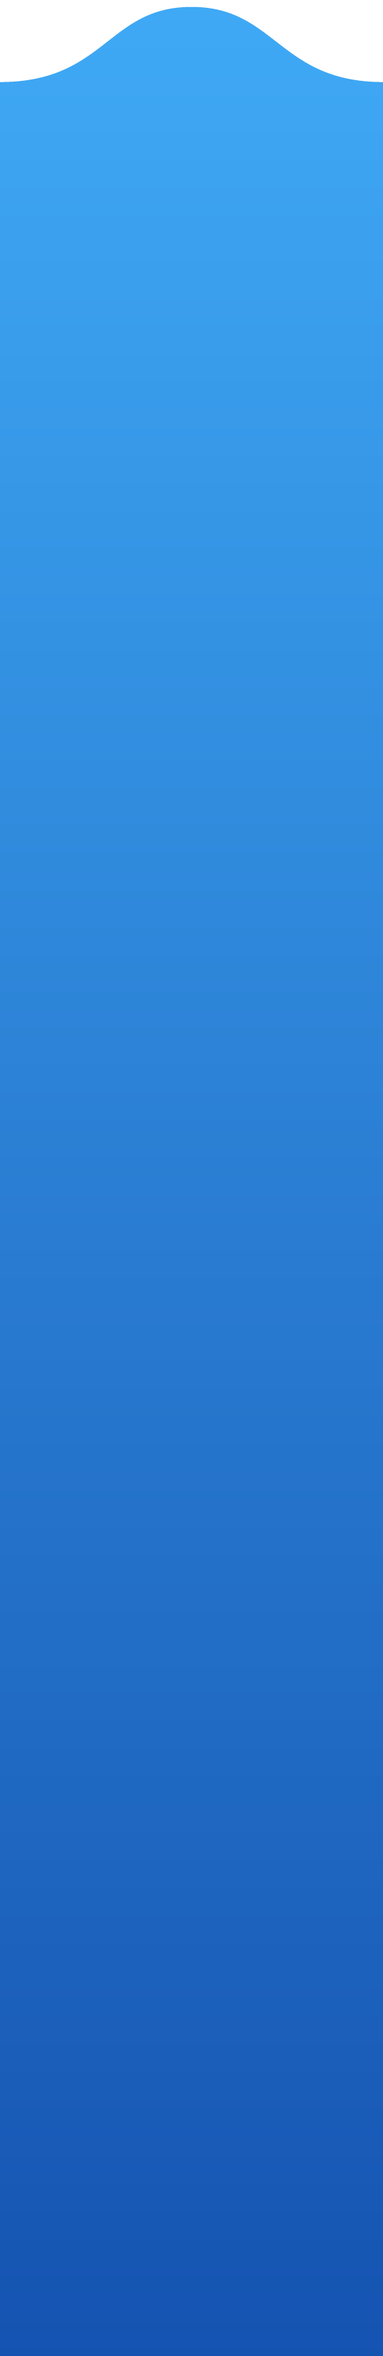
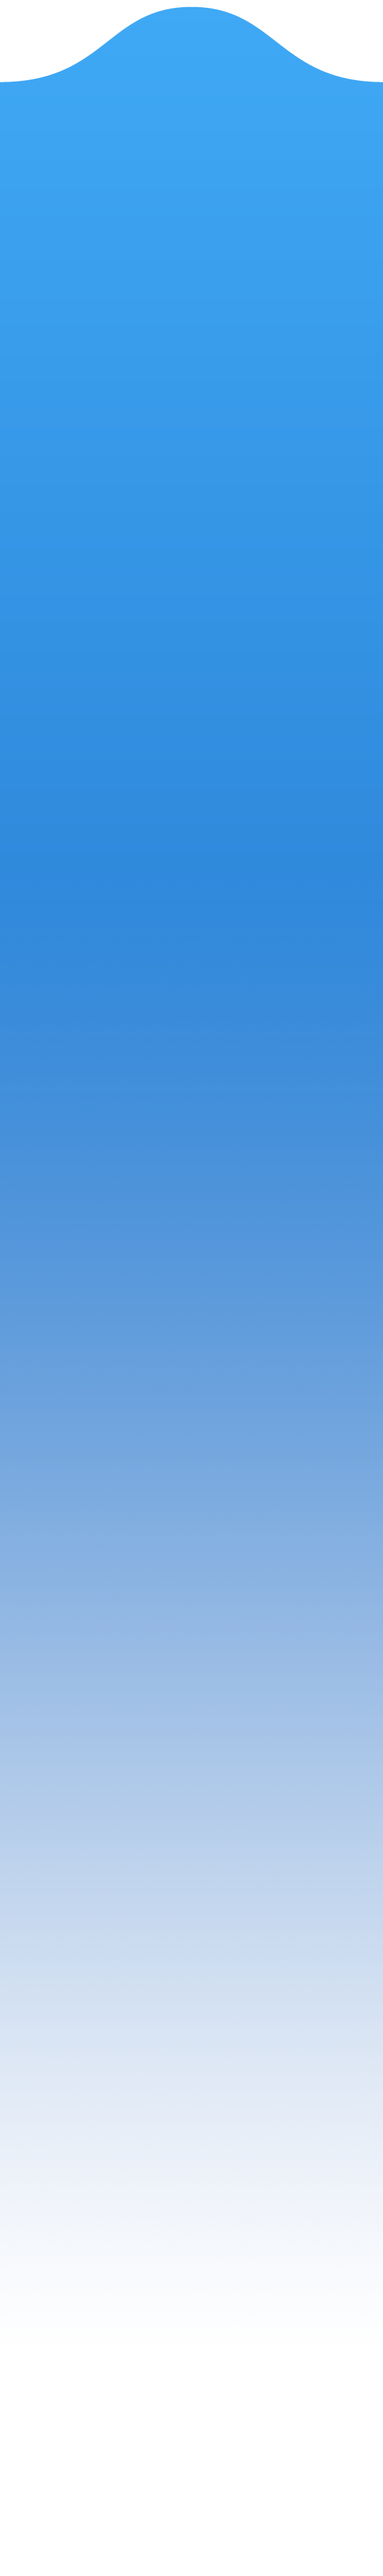
Modified year display and scroll speed

diff --git a/css/main.css b/css/main.css
@@ -6,7 +6,30 @@ body {
 	font-family: 'Roboto Slab', serif;
 	background-color: #9dcdff;
 	font-size: 16px;
-	min-height: 5000px;
+	min-height: 10000px;
+}
+
+h1 {
+    font-size: 10em;
+    text-transform: uppercase;
+    margin: -54px 0 0;
+    text-align: left;
+    color: #cce9ff;
+    position: absolute;
+    right: 389px;
+    letter-spacing: 60px;
+    min-width: 810px;
+    font-weight: normal;
+}
+
+.year-number {
+    color: #5ba8e2;
+    position: absolute;
+    text-align: left;
+}
+
+h2 {
+    text-transform: uppercase;
 }
 
 main {
@@ -30,6 +53,7 @@ main {
 	position: absolute;
 	right: 0; bottom: 0; left: 0;
 	color: #fff;
+    z-index: 1;
 }
 
 .city-single-image {
@@ -41,12 +65,15 @@ main {
 	transition: 600ms all ease;
 	transform: scale(0);
 	transform-origin: bottom center;
-	background-color: rgba(71, 151, 202, 0.47);
+	background-color: rgba(189, 231, 255, 0.47);
     padding: 10px 30px;
     border-radius: 30px;
     box-sizing: border-box;
     position: absolute;
     top: -190px;
+    left: 0;
+    right: 0;
+    margin: 0 40px;
 }
 
 .city-info.visible {
@@ -60,11 +87,11 @@ main {
 
 .city-bubble {
 	position: absolute;
-    top: 80px;
-    left: -40px;
+    bottom: 60px; right: 0; left: 0;
     opacity: 0;
 	transition: 600ms all ease;
 	transform: scale(0);
+    z-index: 1;
 }
 
 .city-bubble.visible {
@@ -82,6 +109,7 @@ main {
     box-sizing: border-box;
     color: #fff;
     font-weight: bold;
+    margin: auto;
 }
 
 /* Water */

diff --git a/index.html b/index.html
@@ -10,7 +10,7 @@
 <body>
 	<main>
 		<header>
-			<h1 class="year-number">2016</h1>
+			<h1>Year <span class="year-number">2016</span></h1> 
 		</header>
 		<div class="water-wave water-wave-1" style="top:90%"></div>
 		<section id="city-montreal" class="city-single">

diff --git a/js/main.js b/js/main.js
@@ -2,7 +2,7 @@
 
 var scrollLocation = 0;
 var windowHeight = 0;
-var maxScroll = 5000;
+var maxScroll = 10000;
 var currentYear = 2016;
 
 var yearEl = $('.year-number');
